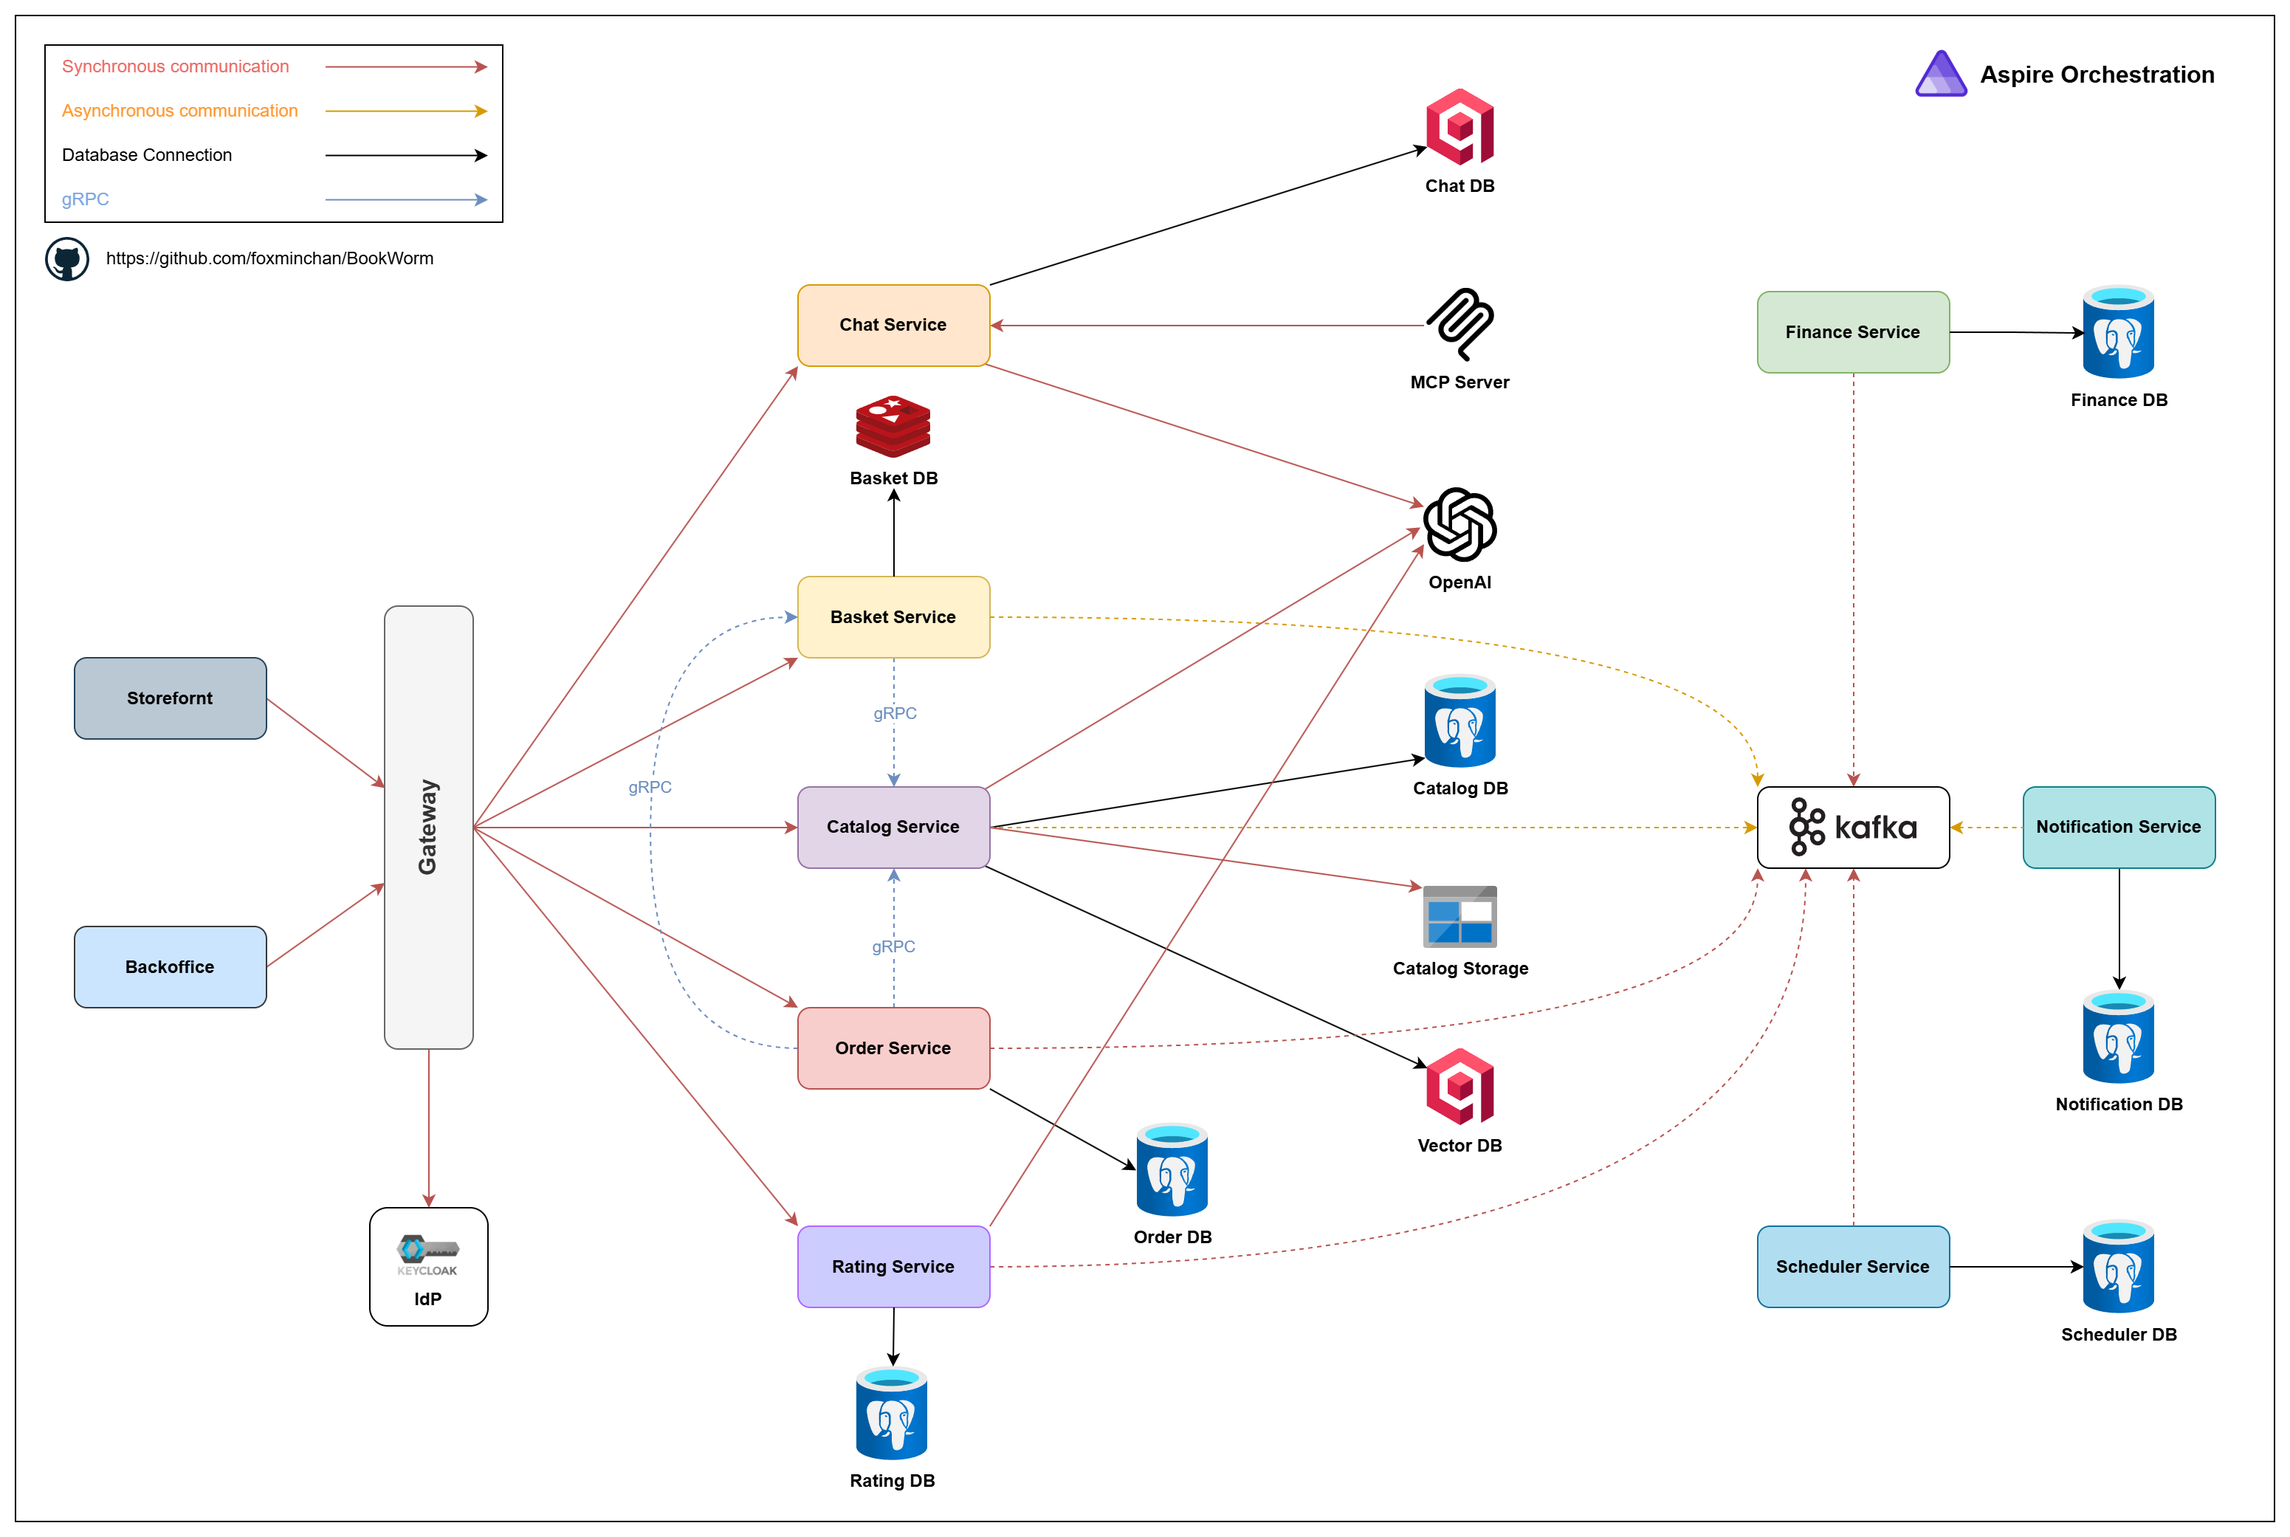
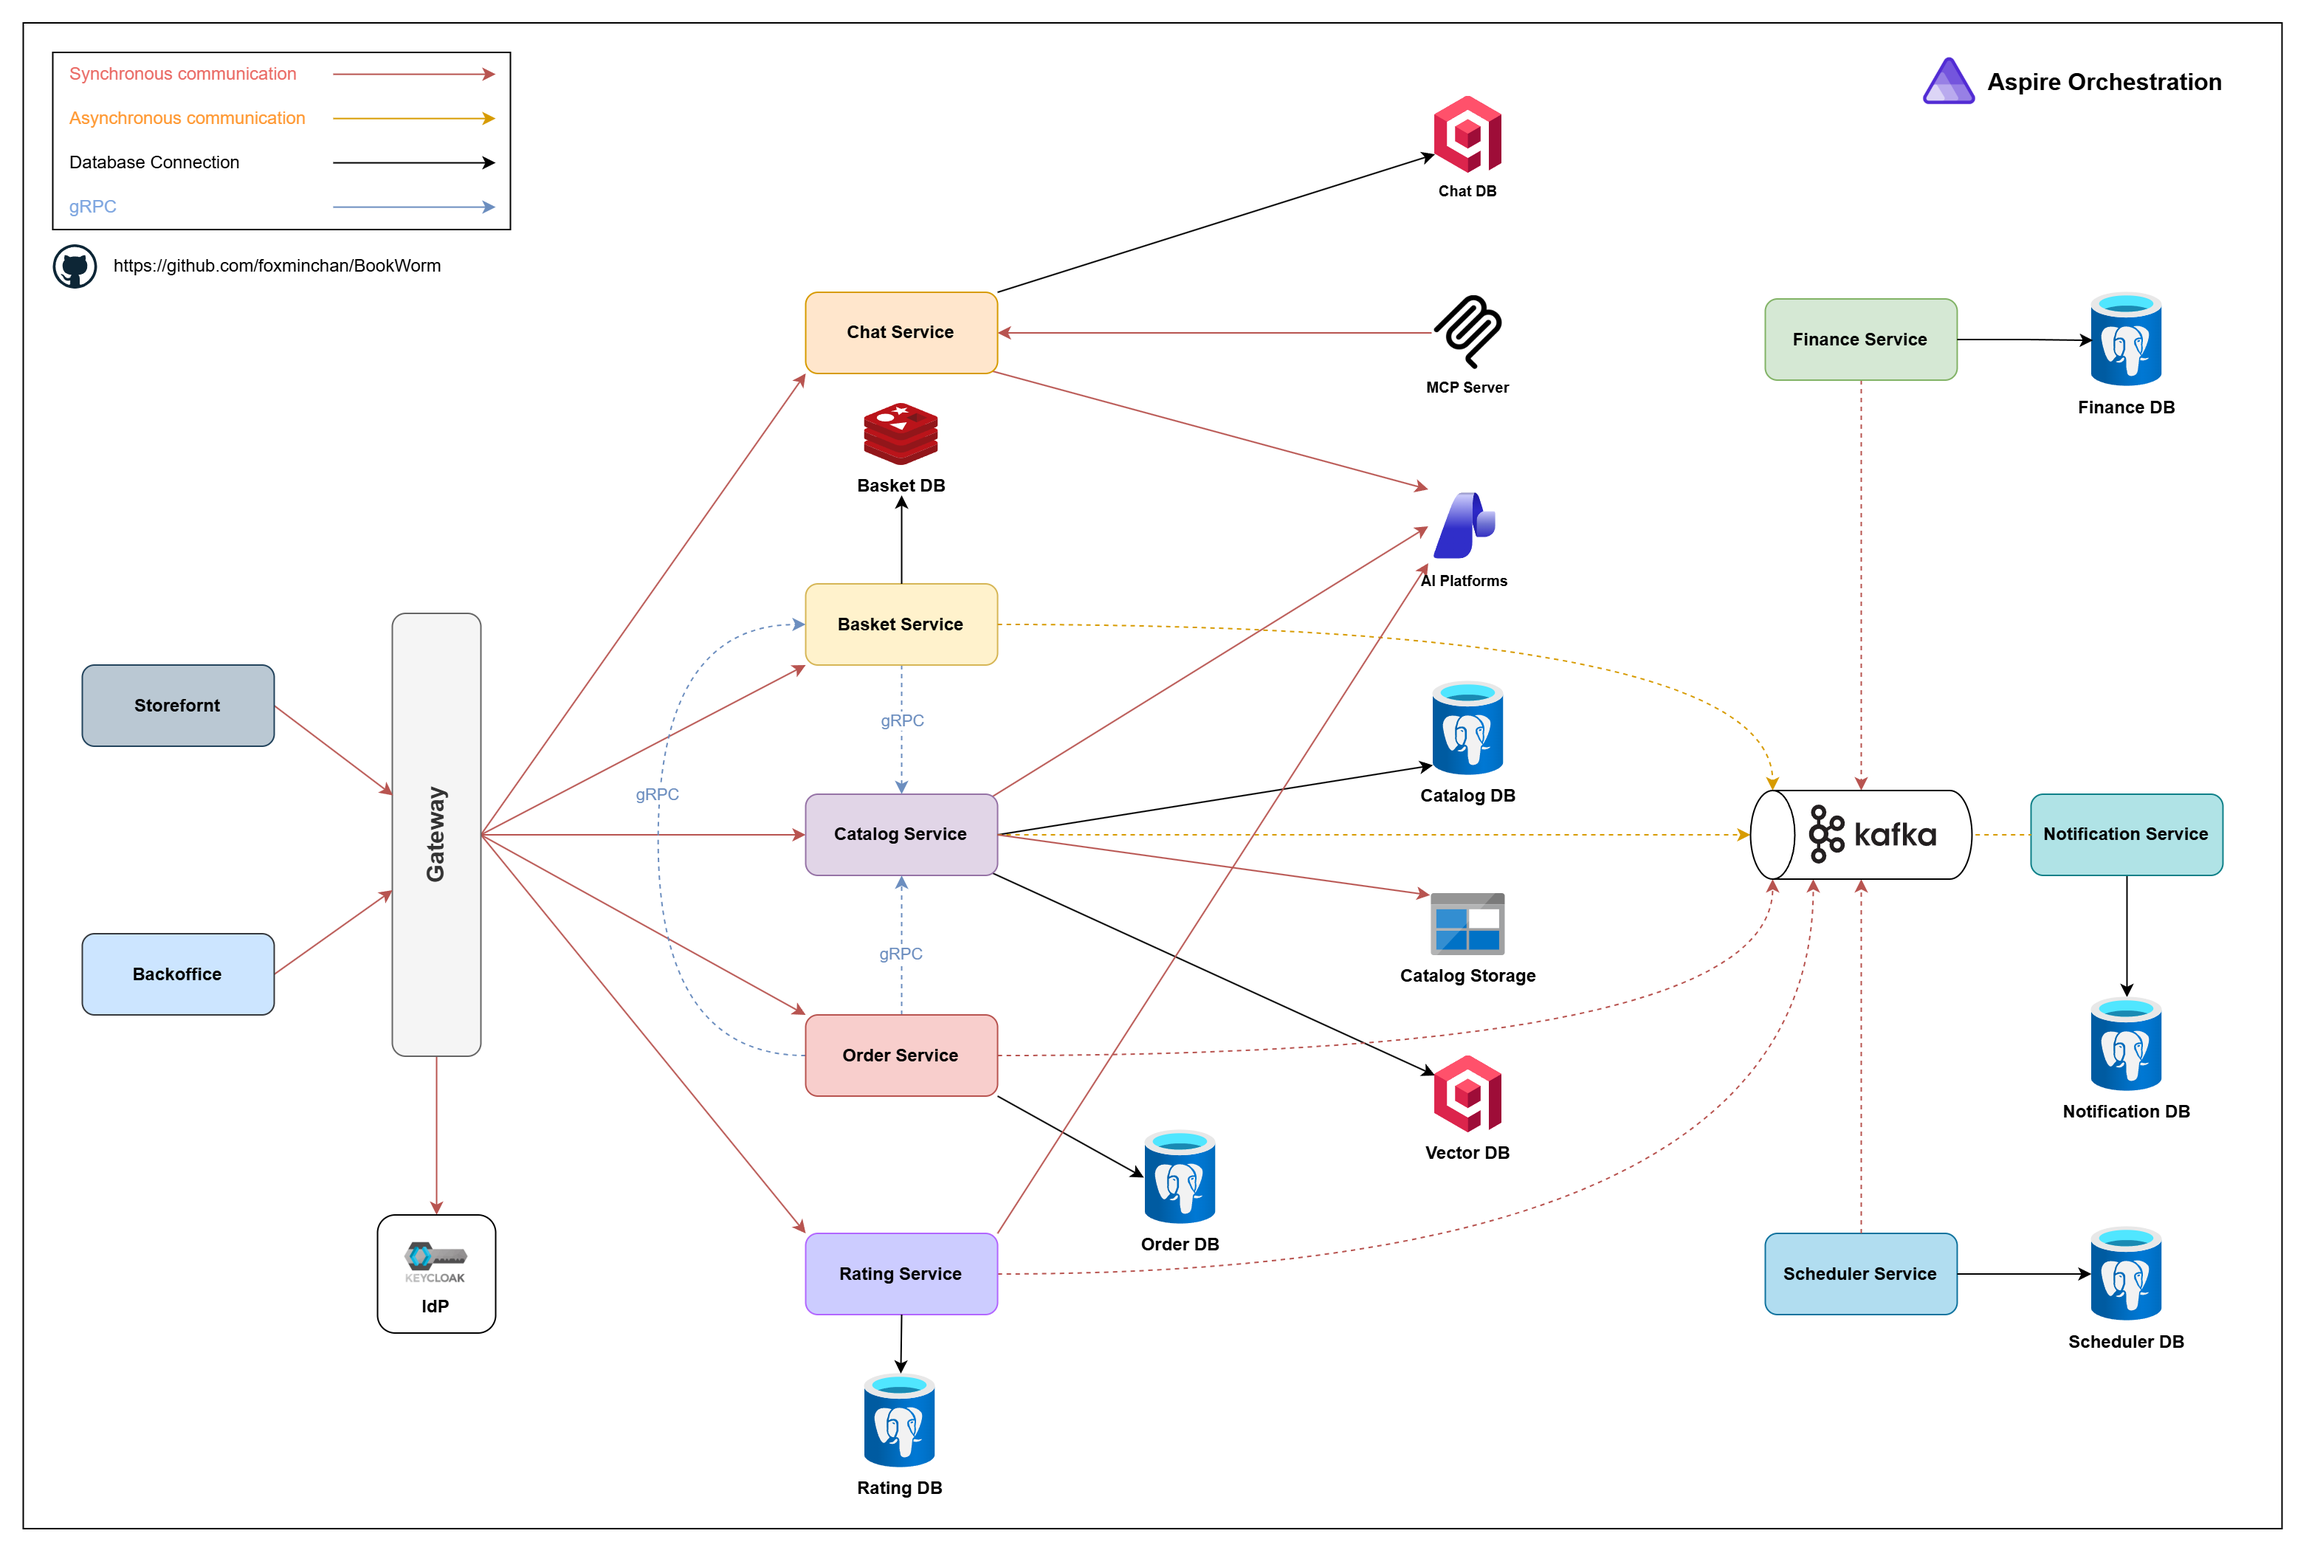
feat(app): migrate from Azure OpenAI to Foundry
* Replace Azure OpenAI integration with Foundry in AppHost
* Update project references to use Aspire.Hosting.Foundry
* Modify AI model extensions to connect with Foundry services
* Adjust components to reflect new Foundry structure
* Update agent registration to utilize MCP tools with tasks
* Enhance rating service to align with new MCP client methods

diff --git a/src/Aspire/BookWorm.AppHost/AppHost.cs b/src/Aspire/BookWorm.AppHost/AppHost.cs
@@ -48,18 +48,20 @@ var orderingDb = postgres.AddDatabase(Components.Database.Ordering).WithPostgres
 var notificationDb = postgres.AddDatabase(Components.Database.Notification).WithPostgresMcp();
 var schedulerDb = postgres.AddDatabase(Components.Database.Scheduler).WithPostgresMcp();
 
-var openai = builder.AddAzureOpenAI(Components.OpenAI.Resource);
+var foundry = builder.AddFoundry(Components.Foundry.Resource);
 
-var chat = openai.AddDeployment(
-    Components.OpenAI.Chat,
-    Components.OpenAI.OpenAIGpt56Sol,
-    Components.OpenAI.OpenAIGpt56SolVersion
+var chat = foundry.AddDeployment(
+    Components.Foundry.Chat,
+    Components.Foundry.OpenAIGpt56Sol,
+    Components.Foundry.OpenAIGpt56SolVersion,
+    Components.Foundry.Provider
 );
 
-var embedding = openai.AddDeployment(
-    Components.OpenAI.Embedding,
-    Components.OpenAI.TextEmbeddingAda002,
-    Components.OpenAI.TextEmbeddingAda002Version
+var embedding = foundry.AddDeployment(
+    Components.Foundry.Embedding,
+    Components.Foundry.TextEmbeddingAda002,
+    Components.Foundry.TextEmbeddingAda002Version,
+    Components.Foundry.Provider
 );
 
 IResourceBuilder<IResource> keycloak = builder.ExecutionContext.IsRunMode

diff --git a/src/BuildingBlocks/BookWorm.Chassis/AI/Extensions/ModelExtensions.cs b/src/BuildingBlocks/BookWorm.Chassis/AI/Extensions/ModelExtensions.cs
@@ -29,24 +29,24 @@ public static class ModelExtensions
         {
             if (
                 !string.IsNullOrWhiteSpace(
-                    builder.Configuration.GetConnectionString(Components.OpenAI.Chat)
+                    builder.Configuration.GetConnectionString(Components.Foundry.Chat)
                 )
             )
             {
                 builder
-                    .AddOpenAIClientFromConfiguration(Components.OpenAI.Chat)
+                    .AddOpenAIClientFromConfiguration(Components.Foundry.Chat)
                     .AddChatClient()
                     .UseFunctionInvocation();
             }
 
             if (
                 !string.IsNullOrWhiteSpace(
-                    builder.Configuration.GetConnectionString(Components.OpenAI.Embedding)
+                    builder.Configuration.GetConnectionString(Components.Foundry.Embedding)
                 )
             )
             {
                 builder
-                    .AddOpenAIClientFromConfiguration(Components.OpenAI.Embedding)
+                    .AddOpenAIClientFromConfiguration(Components.Foundry.Embedding)
                     .AddEmbeddingGenerator();
             }
 

diff --git a/src/Services/Chat/BookWorm.Chat/Agents/BookSearch/BookAgentRegistration.cs b/src/Services/Chat/BookWorm.Chat/Agents/BookSearch/BookAgentRegistration.cs
@@ -2,6 +2,7 @@ using BookWorm.Chassis.AI.Governance;
 using BookWorm.Chassis.AI.Middlewares;
 using Microsoft.Agents.AI;
 using Microsoft.Agents.AI.Hosting;
+using Microsoft.Agents.AI.Mcp;
 
 namespace BookWorm.Chat.Agents.BookSearch;
 
@@ -38,12 +39,10 @@ internal static class BookAgentRegistration
 
                     var mcpClient = sp.GetRequiredService<McpClient>();
                     var mcpTools = mcpClient
-                        .ListToolsAsync()
-                        .Preserve()
+                        .ListAgentToolsWithTasksAsync()
                         .GetAwaiter()
                         .GetResult()
                         .Where(t => _catalogToolNames.Contains(t.Name))
-                        .Cast<AITool>()
                         .ToArray();
 
                     var skillsProvider = new AgentSkillsProvider(

diff --git a/src/Services/Rating/BookWorm.Rating/Infrastructure/Agents/Extensions.cs b/src/Services/Rating/BookWorm.Rating/Infrastructure/Agents/Extensions.cs
@@ -13,6 +13,7 @@ using BookWorm.Rating.Tools;
 using Microsoft.Agents.AI;
 using Microsoft.Agents.AI.Hosting;
 using Microsoft.Agents.AI.Hosting.AGUI.AspNetCore;
+using Microsoft.Agents.AI.Mcp;
 using Microsoft.Agents.AI.Workflows;
 using Microsoft.Extensions.AI;
 using ModelContextProtocol.Client;
@@ -65,8 +66,7 @@ internal static class Extensions
                     var mcpClient = sp.GetRequiredService<McpClient>();
 
                     var mcpTools = mcpClient
-                        .ListToolsAsync()
-                        .Preserve()
+                        .ListAgentToolsWithTasksAsync()
                         .GetAwaiter()
                         .GetResult()
                         .Where(t => t.Name == "get_book");

diff --git a/src/BuildingBlocks/BookWorm.Constants/Aspire/Components.cs b/src/BuildingBlocks/BookWorm.Constants/Aspire/Components.cs
@@ -24,13 +24,14 @@ public static class Components
         public const string Scheduler = "schedulerdb";
     }
 
-    public static class OpenAI
+    public static class Foundry
     {
+        public const string Resource = nameof(Foundry);
+        public const string Provider = "OpenAI";
         public const string OpenAIGpt56Sol = "gpt-5.6-sol";
         public const string OpenAIGpt56SolVersion = "2026-07-09";
         public const string TextEmbeddingAda002 = "text-embedding-ada-002";
         public const string TextEmbeddingAda002Version = "2";
-        public const string Resource = "openai";
         public const string Chat = "chat";
         public const string Embedding = "embedding";
     }
